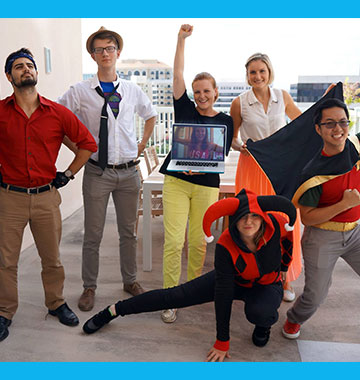
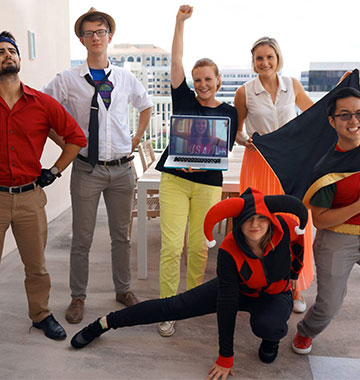
v5

diff --git a/index.html b/index.html
@@ -151,6 +151,7 @@ div .second-line{
         
 .three{
     background-image: url(img/thr33.jpg);
+    background-size: cover;
     background-position: 50% 50%;
     transition: all 0.8s;
     -webkit transition: all 0.8s;
@@ -280,7 +281,7 @@ li a:hover{
         <div class="col-md-12">
             <div class="work air"><p class="project-title">AIR</p><p class="project-subject">Mobile Design & Development</p><div class="gradient"></div></div>
             <div class="work cricket"><p class="project-title">Crickets</p><p class="project-subject">WebGL & THREE.js Development</p><div class="gradient"></div></div>
-            <div class="work last three"><p class="project-title">Thr33fold</p><p class="project-subject">Mobile, Web Design, Front-end Dev,</p><div class="gradient"></div></div>
+            <div class="work last three"><p class="project-title">Thr33fold</p><p class="project-subject">Creative Intern</p><div class="gradient"></div></div>
         </div>
         
         <div class="col-md-12">
